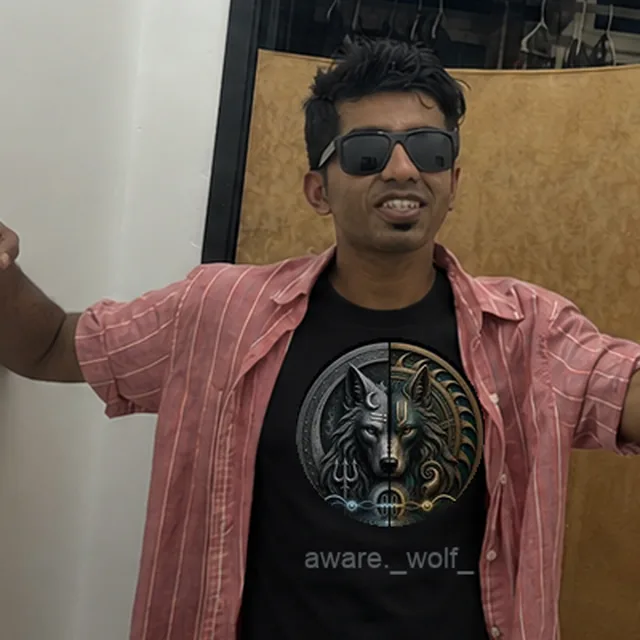
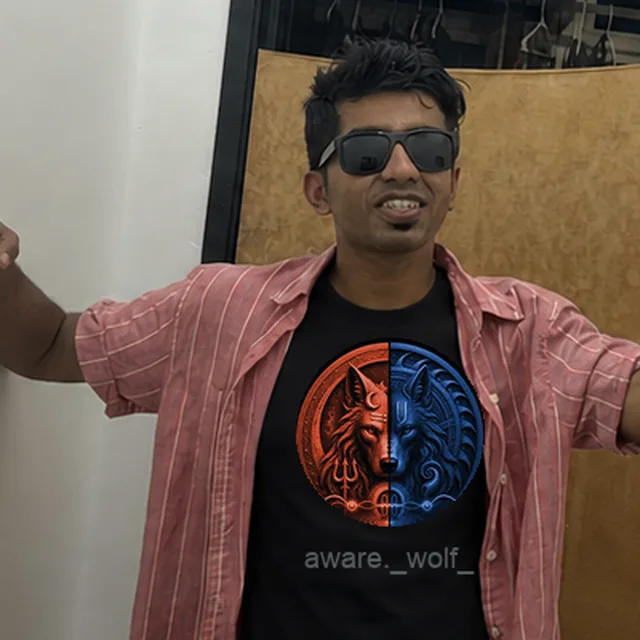
Rebrand AwareWolf in Shiva orange and Narayan blue

Changed region(s): [[0.4375, 0.5312, 0.7812, 0.8438]]

diff --git a/styles.css b/styles.css
@@ -2,10 +2,10 @@
 @import url("https://fonts.googleapis.com/css2?family=Anton&family=Karla:ital,wght@0,400;0,500;0,700;1,400&family=Tiro+Devanagari+Sanskrit&display=swap");
 
 *,*::before,*::after{box-sizing:border-box}
-html{scroll-behavior:smooth;color-scheme:light dark}
-body{margin:0;font-family:var(--aw-font-body);font-size:1.0625rem;line-height:1.6;-webkit-font-smoothing:antialiased}
-body.reading{--site-accent:var(--aw-peacock);--site-accent-pressed:var(--aw-indigo-2);background:var(--aw-bone);color:var(--aw-night);color-scheme:light}
-body.night{--site-accent:var(--aw-peacock-light);--site-accent-pressed:var(--aw-moon);background:var(--aw-night);color:var(--aw-bone);color-scheme:dark}
+html{scroll-behavior:smooth;color-scheme:light dark;max-width:100%;overflow-x:clip}
+body{margin:0;max-width:100%;overflow-x:clip;font-family:var(--aw-font-body);font-size:1.0625rem;line-height:1.6;-webkit-font-smoothing:antialiased}
+body.reading{--site-accent:var(--aw-shiva-ink);--site-accent-pressed:var(--aw-narayan-ink);--site-secondary:var(--aw-narayan);background:var(--aw-bone);color:var(--aw-night);color-scheme:light}
+body.night{--site-accent:var(--aw-shiva);--site-accent-pressed:var(--aw-narayan-light);--site-secondary:var(--aw-narayan-light);background:var(--aw-night);color:var(--aw-bone);color-scheme:dark}
 img{display:block;max-width:100%;height:auto}
 a{color:inherit;text-underline-offset:.18em;text-decoration-thickness:.08em}
 a:hover{color:var(--site-accent-pressed)}
@@ -25,23 +25,24 @@ p{margin:0 0 1em}
 .eyebrow,.muted{color:var(--aw-bone-3)}
 .reading .eyebrow,.reading .muted{color:var(--aw-line)}
 .site-header{border-bottom:1px solid var(--aw-line);background:var(--aw-night);color:var(--aw-bone)}
-.nav-wrap{min-height:4.5rem;display:flex;align-items:center;justify-content:space-between;gap:1rem}
+.nav-wrap{min-width:0;min-height:4.5rem;display:flex;align-items:center;justify-content:space-between;gap:1rem}
 .brand-mark{width:44px;height:auto;flex:0 0 auto}
 .nav-toggle{appearance:none;border:1px solid var(--aw-line);background:transparent;color:var(--aw-bone);font:700 .78rem var(--aw-font-body);letter-spacing:.12em;text-transform:lowercase;padding:.6rem .7rem}
-.site-nav{display:block;position:static;background:var(--aw-night)}
+.site-nav{display:block;min-width:0;position:static;background:var(--aw-night)}
 .site-nav ul{list-style:none;margin:0;padding:0;display:flex;flex-wrap:wrap;justify-content:flex-end;gap:.15rem .7rem}
 .site-nav a{display:block;padding:.35rem .1rem;color:var(--aw-bone);text-decoration:none;font-size:.74rem;font-weight:700}
-.site-nav a[aria-current="page"]{color:var(--aw-peacock-light)}
+.site-nav a[aria-current="page"]{color:var(--aw-narayan-light)}
 .hero{min-height:calc(100svh - 4.5rem);display:grid;align-items:center;padding:4rem 0 5rem}
-.hero-grid{display:grid;gap:3rem}
-.lockup{width:min(100%,520px);max-width:520px}
+.hero-grid{display:grid;gap:3rem;min-width:0}
+.hero-grid>*{min-width:0}
+.lockup{width:100%;max-width:520px}
 .thesis{font-size:clamp(2.2rem,9vw,5.2rem);margin:.65em 0 .25em}
 .tagline{font-size:clamp(1.1rem,3vw,1.45rem);max-width:38ch;color:var(--aw-bone-3)}
 .sanskrit{font-family:var(--aw-font-sanskrit);font-size:clamp(2rem,7vw,3.6rem);line-height:1.15;display:block}
 .translation{display:block;margin-top:.35rem;color:var(--aw-bone-3);font-size:.9rem}
 .reading .translation{color:var(--aw-line)}
 .triad{margin-top:2rem}
-.crescent{width:3.75rem;height:3.75rem;border:2px solid var(--aw-moon);border-right-color:var(--site-accent);border-radius:50%;flex:0 0 auto;transform:rotate(-18deg)}
+.crescent{width:3.75rem;height:3.75rem;border:2px solid;border-color:var(--aw-shiva) var(--aw-narayan-light) var(--aw-narayan-light) var(--aw-shiva);border-radius:50%;flex:0 0 auto;transform:rotate(-18deg)}
 .section{padding:5rem 0;border-top:1px solid}
 .night .section{border-color:var(--aw-line)}
 .reading .section{border-color:var(--aw-bone-3)}
@@ -52,18 +53,21 @@ p{margin:0 0 1em}
 .reading .card{background:var(--aw-bone-2);border-color:var(--aw-bone-3)}
 .night .card{background:var(--aw-night-2);border-color:var(--aw-line)}
 .card p:last-child{margin-bottom:0}
-.pillar .sanskrit{color:var(--site-accent)}
 .pillar-lab .sanskrit{color:var(--aw-lab)}
+.pillar-sanatan .sanskrit{color:var(--aw-shiva)}
+.pillar-play .sanskrit{color:var(--aw-narayan-light)}
 .calls{display:grid;gap:1rem}
 .call{display:block;padding:1.5rem;border:1px solid var(--aw-line);background:var(--aw-night-2);color:var(--aw-bone);text-decoration:none}
 .call strong{display:block;font:400 clamp(2.7rem,13vw,6rem)/.9 var(--aw-font-display);text-transform:lowercase;color:var(--site-accent)}
+.call:nth-child(2) strong{color:var(--site-secondary)}
 .call span{display:block;margin-top:.8rem;color:var(--aw-bone-3)}
 .manifesto{font-size:clamp(1.7rem,5.5vw,3.6rem);line-height:1.08;max-width:24ch}
 .manifesto br+br{line-height:1.7}
 .page-intro{padding:5rem 0 3rem}
 .page-intro h1{font-size:clamp(3.2rem,11vw,7rem)}
 .lede{font-size:clamp(1.1rem,2.8vw,1.35rem);max-width:54ch}
-.name-card .sanskrit{color:var(--site-accent)}
+.name-card .sanskrit{color:var(--aw-shiva-ink)}
+.name-card:nth-child(even) .sanskrit{color:var(--aw-narayan)}
 .name-row{padding:2.5rem 0;border-top:1px solid var(--aw-bone-3);display:grid;gap:1.35rem}
 .name-row:first-child{border-top:0}
 .name-row h2{font-size:clamp(2.2rem,7vw,4rem)}
@@ -73,7 +77,7 @@ p{margin:0 0 1em}
 .rule{border-left:3px solid var(--site-accent);padding:.85rem 1rem;background:var(--aw-bone-2);margin-top:1rem}
 .tier{display:inline-block;padding:.25rem .55rem;color:var(--aw-night);margin-bottom:.7rem;border-radius:2px}
 .tier-finding{background:var(--aw-lab)}
-.tier-frontier{background:var(--aw-antique-gold)}
+.tier-frontier{background:var(--aw-narayan-light)}
 .tier-interpretation{background:var(--aw-bone-3)}
 .standard-grid{display:grid;gap:1rem;margin:2rem 0 4rem}
 .say-never{display:grid;gap:2rem}
@@ -84,7 +88,7 @@ p{margin:0 0 1em}
 .study:first-child{border-top:0}
 .study h2{font-size:clamp(1.8rem,6vw,2.8rem)}
 .study .meta{color:var(--aw-bone-3);margin:.4rem 0 .8rem}
-.study a{color:var(--site-accent);font-weight:700}
+.study a{color:var(--site-secondary);font-weight:700}
 .noscript-note{border:1px solid var(--aw-line);padding:1rem;margin-bottom:1rem}
 .play-frame{min-height:calc(100svh - 4.5rem);display:grid;place-items:center;text-align:center;padding:4rem 1rem;background:var(--aw-night)}
 .play-stack,.play-result{display:flex;flex-direction:column;align-items:center;gap:1rem;max-width:38rem}
@@ -96,15 +100,23 @@ p{margin:0 0 1em}
 .accordion details{border-bottom:1px solid var(--aw-line)}
 .accordion summary{cursor:pointer;padding:1rem 0;font:400 1.7rem/1 var(--aw-font-display);text-transform:lowercase}
 .accordion p{color:var(--aw-bone-3)}
-.proof{border-left:3px solid var(--site-accent);padding:1rem 1.25rem;background:var(--aw-night-2)}
+.proof{border-left:3px solid var(--site-secondary);padding:1rem 1.25rem;background:var(--aw-night-2)}
 .site-footer{border-top:1px solid var(--aw-line);padding:2.5rem 0 3rem;background:var(--aw-night);color:var(--aw-bone-3)}
 .footer-grid{display:grid;gap:1rem}
-.site-footer a{color:var(--aw-bone)}
+.site-footer a{color:var(--aw-narayan-light)}
 .closing{font:400 1.8rem/1 var(--aw-font-display);text-transform:lowercase;color:var(--aw-bone)}
+
+@media (max-width:47.99rem){
+  .nav-wrap{align-items:stretch;flex-direction:column;padding:.65rem 0;gap:.45rem}
+  .brand-mark{width:38px}
+  .site-nav{width:100%;overflow-x:auto;overscroll-behavior-inline:contain;scrollbar-width:none}
+  .site-nav::-webkit-scrollbar{display:none}
+  .site-nav ul{width:max-content;flex-wrap:nowrap;justify-content:flex-start}
+}
 
 @media (min-width:48rem){
   .shell{width:min(100% - 4rem,72rem)}
-  .nav-toggle{display:none}.site-nav ul{gap:1rem}.site-nav a{font-size:.85rem;padding:.75rem .2rem}
+  .nav-wrap{align-items:center;flex-direction:row}.nav-toggle{display:none}.site-nav ul{gap:1rem}.site-nav a{font-size:.85rem;padding:.75rem .2rem}
   .hero-grid{grid-template-columns:minmax(0,1.2fr) minmax(16rem,.8fr);align-items:end}
   .grid-2,.calls,.say-never{grid-template-columns:repeat(2,minmax(0,1fr))}.grid-3,.standard-grid{grid-template-columns:repeat(3,minmax(0,1fr))}
   .name-row{grid-template-columns:minmax(12rem,.8fr) minmax(0,1fr) minmax(0,1.3fr);gap:2.5rem}

diff --git a/play.html b/play.html
@@ -1,5 +1,5 @@
 <!doctype html><html lang="en"><head><meta charset="utf-8"><meta name="viewport" content="width=device-width,initial-scale=1"><meta name="description" content="Pick one thing to play this week."><title>Play everything — AwareWolf</title><link rel="stylesheet" href="styles.css"></head>
-<body class="night"><a class="skip-link" href="#main">skip to the page</a><header class="site-header"><div class="shell nav-wrap"><a href="index.html" aria-label="AwareWolf home"><img class="brand-mark" src="brand/awarewolf_mark_v7.webp" width="192" height="192" alt="AwareWolf wolf emblem joining Shiva, Vishnu and quantum science"></a><nav class="site-nav" aria-label="main navigation"><ul><li><a href="index.html">home</a></li><li><a href="name.html">the name</a></li><li><a href="names.html">the nine names</a></li><li><a href="standard.html">the quantum standard</a></li><li><a aria-current="page" href="play.html">play</a></li><li><a href="awake.html">awake</a></li><li><a href="pack.html">the pack</a></li></ul></nav></div></header>
+<body class="night"><a class="skip-link" href="#main">skip to the page</a><header class="site-header"><div class="shell nav-wrap"><a href="index.html" aria-label="AwareWolf home"><img class="brand-mark" src="brand/awarewolf_mark_v8.webp" width="192" height="192" alt="AwareWolf wolf emblem: Shiva orange, Vishnu blue, joined by quantum science"></a><nav class="site-nav" aria-label="main navigation"><ul><li><a href="index.html">home</a></li><li><a href="name.html">the name</a></li><li><a href="names.html">the nine names</a></li><li><a href="standard.html">the quantum standard</a></li><li><a aria-current="page" href="play.html">play</a></li><li><a href="awake.html">awake</a></li><li><a href="pack.html">the pack</a></li></ul></nav></div></header>
 <main id="main"><section class="play-frame" aria-label="pick one"><div class="play-stack" data-play-start><p class="eyebrow">you commented play</p><h1><span class="caption-box">pick one.</span><br><span class="caption-box">this week.</span></h1><p class="muted measure">don't read the whole list below. hit this, and whatever it lands on, go do it before sunday. that's the entire trick.</p><button class="play-button" type="button" data-pick>pick one for me</button><noscript><p class="proof">scripts are off. close your eyes, scroll the list below, and tap one. same rule.</p></noscript></div><div class="play-result" data-play-result hidden><p class="eyebrow">your one for this week</p><h2 class="play-big"><span class="caption-box" data-play-name>—</span></h2><p class="lede" data-play-tip></p><p class="muted">screenshot this. that's your commitment.</p></div></section>
 <section class="section"><div class="shell"><div class="section-head"><span class="crescent" aria-hidden="true"></span><div><p class="eyebrow">all 21</p><h2>tap any.</h2></div></div><p class="muted measure">everything in the reel, with one honest note. i stay with each one until it opens up.</p><div class="accordion">
 <details><summary>kickboxing</summary><p>any gym near you has a trial class. go once. give the bag your full attention for 20 minutes.</p></details><details><summary>football</summary><p>nearest turf, weekday night. someone's always a player short. say yes.</p></details><details><summary>tennis</summary><p>a wall and one ball. hit against it for 20 minutes. no partner needed.</p></details><details><summary>paddleboarding</summary><p>rent one for an hour at any lake. balance, breathe, adjust. that is the whole experience.</p></details><details><summary>deadlift</summary><p>just the bar, no plates. learn the movement. add weight next week, not today.</p></details><details><summary>bhangra</summary><p>search “basic bhangra steps”, living room, ten minutes. no one's watching.</p></details><details><summary>cycling</summary><p>borrow or rent a bike. ride somewhere you'd normally drive.</p></details><details><summary>basketball</summary><p>any park hoop. shoot 50 free throws alone. count the makes.</p></details><details><summary>running</summary><p>20 minutes, slow enough to talk. you're not training for anything.</p></details><details><summary>nunchucks</summary><p>foam ones, backyard, slow figure-eights. attention before speed.</p></details><details><summary>surfing</summary><p>book a beginner lesson before you talk yourself out of it.</p></details><details><summary>calisthenics</summary><p>a bar at the park. hang from it. that's day one.</p></details><details><summary>pool</summary><p>any bar with a table. play a stranger. watch the angles. play again.</p></details><details><summary>chess</summary><p>a free app or a friend and a board. one game, no clock.</p></details><details><summary>ballroom</summary><p>find a beginner social night. go alone. they pair you up.</p></details><details><summary>quad biking</summary><p>a rental near any hill town. alert at first, then grinning.</p></details><details><summary>pickleball</summary><p>public court, borrowed paddle. track the ball, adjust, keep playing.</p></details><details><summary>kayaking</summary><p>rent one, one hour, calm water. sitting outdoors with a stick.</p></details><details><summary>scuba</summary><p>a discovery dive in a pool. breathing underwater counts.</p></details><details><summary>paragliding</summary><p>tandem flight. you run three steps and do nothing else.</p></details><details><summary>guitar</summary><p>three chords, one song, friends building the groove together.</p></details>

diff --git a/index.html b/index.html
@@ -8,19 +8,19 @@
 <body class="night">
 <a class="skip-link" href="#main">skip to the page</a>
 <header class="site-header"><div class="shell nav-wrap">
-  <a href="index.html" aria-label="AwareWolf home"><img class="brand-mark" src="brand/awarewolf_mark_v7.webp" width="192" height="192" alt="AwareWolf wolf emblem joining Shiva, Vishnu and quantum science"></a>
+  <a href="index.html" aria-label="AwareWolf home"><img class="brand-mark" src="brand/awarewolf_mark_v8.webp" width="192" height="192" alt="AwareWolf wolf emblem: Shiva orange, Vishnu blue, joined by quantum science"></a>
   <nav class="site-nav" aria-label="main navigation"><ul><li><a aria-current="page" href="index.html">home</a></li><li><a href="name.html">the name</a></li><li><a href="names.html">the nine names</a></li><li><a href="standard.html">the quantum standard</a></li><li><a href="play.html">play</a></li><li><a href="awake.html">awake</a></li><li><a href="pack.html">the pack</a></li></ul></nav>
 </div></header>
 <main id="main">
   <section class="hero"><div class="shell hero-grid">
-    <div><img class="lockup" src="brand/awarewolf_identity_v7.webp" width="640" height="640" alt="AwareWolf emblem: a wolf joining Shiva, Vishnu and quantum science, with the handle aware dot underscore wolf underscore"><h1 class="thesis">the witness who dances.</h1><p class="tagline">a bridge between the lab and the mat, built through aware presence — the secret sauce for getting better at anything.</p></div>
+    <div><img class="lockup" src="brand/awarewolf_identity_v8.webp" width="640" height="640" alt="AwareWolf emblem: Shiva orange and Vishnu blue joined by quantum science, with the handle aware dot underscore wolf underscore"><h1 class="thesis">the witness who dances.</h1><p class="tagline">a bridge between the lab and the mat, built through aware presence — the secret sauce for getting better at anything.</p></div>
     <div><div class="crescent" aria-hidden="true"></div><div class="triad"><span class="sanskrit" lang="sa">सत् · चित् · आनन्द</span><span class="translation">truth · awareness · joy — science · sanatan · play</span></div></div>
   </div></section>
   <section class="section"><div class="shell"><div class="section-head"><span class="crescent" aria-hidden="true"></span><div><p class="eyebrow">three pillars</p><h2>one true thing. one live thing.</h2></div></div>
     <div class="grid grid-3">
       <article class="card pillar pillar-lab"><span class="sanskrit" lang="sa">सत्</span><span class="translation">sat · truth · science</span><h3>the lab</h3><p>What is actually known, with the caveats out loud. Journal + year on screen, every time.</p></article>
-      <article class="card pillar"><span class="sanskrit" lang="sa">चित्</span><span class="translation">chit · awareness · sanatan</span><h3>the mat</h3><p>Practice explained plainly and tested honestly. Sanskrit with translation, scripture with chapter and verse.</p></article>
-      <article class="card pillar"><span class="sanskrit" lang="sa">आनन्द</span><span class="translation">ānanda · joy · play</span><h3>the field</h3><p>Sport, music, dance, full attention. The proof that presence is not solemn. This earns the right to the other two.</p></article>
+      <article class="card pillar pillar-sanatan"><span class="sanskrit" lang="sa">चित्</span><span class="translation">chit · awareness · sanatan</span><h3>the mat</h3><p>Practice explained plainly and tested honestly. Sanskrit with translation, scripture with chapter and verse.</p></article>
+      <article class="card pillar pillar-play"><span class="sanskrit" lang="sa">आनन्द</span><span class="translation">ānanda · joy · play</span><h3>the field</h3><p>Sport, music, dance, full attention. The proof that presence is not solemn. This earns the right to the other two.</p></article>
     </div>
   </div></section>
   <section class="section"><div class="shell"><div class="section-head"><span class="crescent" aria-hidden="true"></span><div><p class="eyebrow">two doors</p><h2>pick the live thing.</h2></div></div><div class="calls"><a class="call" href="play.html"><strong>play</strong><span>let me choose what you play this week.</span></a><a class="call" href="awake.html"><strong>awake</strong><span>read the receipts behind the last reel.</span></a></div></div></section>

diff --git a/standard.html b/standard.html
@@ -1,5 +1,5 @@
 <!doctype html><html lang="en"><head><meta charset="utf-8"><meta name="viewport" content="width=device-width,initial-scale=1"><meta name="description" content="The AwareWolf quantum standard: finding, frontier and interpretation."><title>The quantum standard — AwareWolf</title><link rel="stylesheet" href="styles.css"></head>
-<body class="reading"><a class="skip-link" href="#main">skip to the page</a><header class="site-header"><div class="shell nav-wrap"><a href="index.html" aria-label="AwareWolf home"><img class="brand-mark" src="brand/awarewolf_mark_v7.webp" width="192" height="192" alt="AwareWolf wolf emblem joining Shiva, Vishnu and quantum science"></a><nav class="site-nav" aria-label="main navigation"><ul><li><a href="index.html">home</a></li><li><a href="name.html">the name</a></li><li><a href="names.html">the nine names</a></li><li><a aria-current="page" href="standard.html">the quantum standard</a></li><li><a href="play.html">play</a></li><li><a href="awake.html">awake</a></li><li><a href="pack.html">the pack</a></li></ul></nav></div></header>
+<body class="reading"><a class="skip-link" href="#main">skip to the page</a><header class="site-header"><div class="shell nav-wrap"><a href="index.html" aria-label="AwareWolf home"><img class="brand-mark" src="brand/awarewolf_mark_v8.webp" width="192" height="192" alt="AwareWolf wolf emblem: Shiva orange, Vishnu blue, joined by quantum science"></a><nav class="site-nav" aria-label="main navigation"><ul><li><a href="index.html">home</a></li><li><a href="name.html">the name</a></li><li><a href="names.html">the nine names</a></li><li><a aria-current="page" href="standard.html">the quantum standard</a></li><li><a href="play.html">play</a></li><li><a href="awake.html">awake</a></li><li><a href="pack.html">the pack</a></li></ul></nav></div></header>
 <main id="main"><header class="page-intro shell"><p class="eyebrow">the quantum standard</p><h1>label the claim.</h1><p class="lede">"Quantum" is the most abused word in spiritual content. AwareWolf earns the right to use it by labelling every quantum claim with its tier, on screen.</p></header>
 <section class="section"><div class="shell"><div class="standard-grid"><article class="card"><span class="tier tier-finding">finding</span><h2>settled</h2><p>Superposition, entanglement, tunnelling, decoherence, quantum field theory, macroscopic quantum states (Nobel 2025). Say these plainly. No hedge needed beyond "this is physics, not metaphysics."</p></article><article class="card"><span class="tier tier-frontier">frontier</span><h2>real but contested</h2><p>Quantum effects in biology (photosynthesis strong, brain unknown); microtubules and anaesthesia (Neuroscience of Consciousness, 2025 — argued, not accepted); black-hole information recovery. Say "some physicists argue," name them, and say most colleagues disagree.</p></article><article class="card"><span class="tier tier-interpretation">interpretation</span><h2>philosophy</h2><p>What measurement means; whether the observer matters; QBism, relational QM, many-worlds; consciousness-first metaphysics (Kastrup). Say "this is an interpretation" and never present it as a result.</p></article></div>
 <div class="say-never"><section><h2>say</h2><ul><li>"the questions have started to rhyme."</li><li>"this is physics. the meaning is mine."</li><li>"twenty people, no control group — so, honestly, we don't know."</li><li>"some physicists argue X. most don't. it's being tested."</li><li>"the Gītā's word for the body is the physicist's word for reality. that's a coincidence worth sitting with."</li></ul></section><section><h2>never</h2><ul><li>"quantum physics proves…" / "science has confirmed the Vedas."</li><li>"the observer creates reality" stated as fact.</li><li>"vibration", "frequency", "manifest", "energy" as physics words.</li><li>"ancient wisdom knew" without the verse.</li><li>Any claim without a journal and a year on screen.</li></ul></section></div></div></section>

diff --git a/pack.html b/pack.html
@@ -1,5 +1,5 @@
 <!doctype html><html lang="en"><head><meta charset="utf-8"><meta name="viewport" content="width=device-width,initial-scale=1"><meta name="description" content="The AwareWolf pack — built on proof, not applause."><title>The pack — AwareWolf</title><link rel="stylesheet" href="styles.css"></head>
-<body class="reading"><a class="skip-link" href="#main">skip to the page</a><header class="site-header"><div class="shell nav-wrap"><a href="index.html" aria-label="AwareWolf home"><img class="brand-mark" src="brand/awarewolf_mark_v7.webp" width="192" height="192" alt="AwareWolf wolf emblem joining Shiva, Vishnu and quantum science"></a><nav class="site-nav" aria-label="main navigation"><ul><li><a href="index.html">home</a></li><li><a href="name.html">the name</a></li><li><a href="names.html">the nine names</a></li><li><a href="standard.html">the quantum standard</a></li><li><a href="play.html">play</a></li><li><a href="awake.html">awake</a></li><li><a aria-current="page" href="pack.html">the pack</a></li></ul></nav></div></header>
+<body class="reading"><a class="skip-link" href="#main">skip to the page</a><header class="site-header"><div class="shell nav-wrap"><a href="index.html" aria-label="AwareWolf home"><img class="brand-mark" src="brand/awarewolf_mark_v8.webp" width="192" height="192" alt="AwareWolf wolf emblem: Shiva orange, Vishnu blue, joined by quantum science"></a><nav class="site-nav" aria-label="main navigation"><ul><li><a href="index.html">home</a></li><li><a href="name.html">the name</a></li><li><a href="names.html">the nine names</a></li><li><a href="standard.html">the quantum standard</a></li><li><a href="play.html">play</a></li><li><a href="awake.html">awake</a></li><li><a aria-current="page" href="pack.html">the pack</a></li></ul></nav></div></header>
 <main id="main"><header class="page-intro shell"><p class="eyebrow">the pack</p><h1>proof, not applause.</h1><p class="lede">Svāna, the dog who stayed. Followers are not an audience; they are the ones who came along. The community system is built on proof, not applause.</p></header>
 <section class="section"><div class="shell grid grid-3"><article class="card"><h2>the proof loop</h2><p>Comment the keyword → get the page → screenshot your pick → go do it → send the proof. Every proof is reposted to stories with the mark stamp. Every month the proofs become a reel: "you actually went."</p></article><article class="card"><h2>the sunday howl</h2><p>Sunday night story: one question, "what did you play this week?" Answers reposted. It is the brand's only recurring ritual and it never sells anything.</p></article><article class="card"><h2>pack rules</h2><p>Reply to every comment in the first hour in your texting voice. Never pin praise. Pin the best miss. Correct yourself publicly when a study turns out weaker than you said — that correction is content.</p></article></div></section>
 <section class="section"><div class="shell"><div class="section-head"><span class="crescent" aria-hidden="true"></span><div><p class="eyebrow">your turn</p><h2>send your proof.</h2></div></div><p class="lede">Screenshot your pick. Go do it. Then <a href="https://www.instagram.com/aware._wolf_/">dm me on instagram</a>. i reply to all of them.</p></div></section></main>

diff --git a/names.html b/names.html
@@ -1,5 +1,5 @@
 <!doctype html><html lang="en"><head><meta charset="utf-8"><meta name="viewport" content="width=device-width,initial-scale=1"><meta name="description" content="Nine Sahasranāma names, nine scientific rhymes, nine rules."><title>The nine names — AwareWolf</title><link rel="stylesheet" href="styles.css"></head>
-<body class="reading"><a class="skip-link" href="#main">skip to the page</a><header class="site-header"><div class="shell nav-wrap"><a href="index.html" aria-label="AwareWolf home"><img class="brand-mark" src="brand/awarewolf_mark_v7.webp" width="192" height="192" alt="AwareWolf wolf emblem joining Shiva, Vishnu and quantum science"></a><nav class="site-nav" aria-label="main navigation"><ul><li><a href="index.html">home</a></li><li><a href="name.html">the name</a></li><li><a aria-current="page" href="names.html">the nine names</a></li><li><a href="standard.html">the quantum standard</a></li><li><a href="play.html">play</a></li><li><a href="awake.html">awake</a></li><li><a href="pack.html">the pack</a></li></ul></nav></div></header>
+<body class="reading"><a class="skip-link" href="#main">skip to the page</a><header class="site-header"><div class="shell nav-wrap"><a href="index.html" aria-label="AwareWolf home"><img class="brand-mark" src="brand/awarewolf_mark_v8.webp" width="192" height="192" alt="AwareWolf wolf emblem: Shiva orange, Vishnu blue, joined by quantum science"></a><nav class="site-nav" aria-label="main navigation"><ul><li><a href="index.html">home</a></li><li><a href="name.html">the name</a></li><li><a aria-current="page" href="names.html">the nine names</a></li><li><a href="standard.html">the quantum standard</a></li><li><a href="play.html">play</a></li><li><a href="awake.html">awake</a></li><li><a href="pack.html">the pack</a></li></ul></nav></div></header>
 <main id="main"><header class="page-intro shell"><p class="eyebrow">the nine names</p><h1>rhymes, not proofs.</h1><p class="lede">Nine names from the two Sahasranāmas, each paired with a real finding from physics or neuroscience and turned into a rule the brand can be held to. The pairings are <b>rhymes, not proofs</b> — and the brand says so, every time.</p></header>
 <section class="section"><div class="shell">
 <article class="name-row"><div><span class="sanskrit" lang="sa">साक्षी</span><span class="translation">Sākṣī · the witness</span><p class="iast">Sākṣī</p><p class="source">viṣṇu sahasranāma · 15</p></div><div><span class="label">the name</span><p><b>The witness.</b> Śaṅkara: the one who sees everything directly, as it is. Not the doer — the one who watches the doing.</p></div><div><span class="tier tier-interpretation">interpretation</span><p>Quantum theory has no "view from nowhere." In QBism and relational interpretations, a measurement outcome is always an outcome <i>for someone</i>. Physics cannot get rid of the witness; it can only argue about what the witness is.</p><p class="rule"><b>Rule:</b> first person, always. We say what we saw and did. Never "studies show" without "and here is what happened when I tried it."</p></div></article>

diff --git a/name.html b/name.html
@@ -1,5 +1,5 @@
 <!doctype html><html lang="en"><head><meta charset="utf-8"><meta name="viewport" content="width=device-width,initial-scale=1"><meta name="description" content="The name AwareWolf, read through the texts."><title>The name — AwareWolf</title><link rel="stylesheet" href="styles.css"></head>
-<body class="reading"><a class="skip-link" href="#main">skip to the page</a><header class="site-header"><div class="shell nav-wrap"><a href="index.html" aria-label="AwareWolf home"><img class="brand-mark" src="brand/awarewolf_mark_v7.webp" width="192" height="192" alt="AwareWolf wolf emblem joining Shiva, Vishnu and quantum science"></a><nav class="site-nav" aria-label="main navigation"><ul><li><a href="index.html">home</a></li><li><a aria-current="page" href="name.html">the name</a></li><li><a href="names.html">the nine names</a></li><li><a href="standard.html">the quantum standard</a></li><li><a href="play.html">play</a></li><li><a href="awake.html">awake</a></li><li><a href="pack.html">the pack</a></li></ul></nav></div></header>
+<body class="reading"><a class="skip-link" href="#main">skip to the page</a><header class="site-header"><div class="shell nav-wrap"><a href="index.html" aria-label="AwareWolf home"><img class="brand-mark" src="brand/awarewolf_mark_v8.webp" width="192" height="192" alt="AwareWolf wolf emblem: Shiva orange, Vishnu blue, joined by quantum science"></a><nav class="site-nav" aria-label="main navigation"><ul><li><a href="index.html">home</a></li><li><a aria-current="page" href="name.html">the name</a></li><li><a href="names.html">the nine names</a></li><li><a href="standard.html">the quantum standard</a></li><li><a href="play.html">play</a></li><li><a href="awake.html">awake</a></li><li><a href="pack.html">the pack</a></li></ul></nav></div></header>
 <main id="main"><header class="page-intro shell"><p class="eyebrow">the name</p><h1>read through the texts.</h1><p class="lede">The name was chosen as a pun. It turns out to be a citation.</p></header>
 <section class="section"><div class="shell grid grid-2">
 <article class="card name-card"><span class="sanskrit" lang="sa">वृक</span><span class="translation">vṝka — the wolf</span><h2>vṝka — the wolf</h2><p>Sanskrit for wolf, attested in the Ṛgveda. The wolf is the one animal that plays its whole life — not just as a pup. Pack, instinct, night, howl. A werewolf changes when the moon comes out. An <b>aware</b> wolf is the one that noticed it changing.</p></article>

diff --git a/brand/tokens.css b/brand/tokens.css
@@ -1,25 +1,24 @@
-/* AwareWolf design tokens v2 */
+/* AwareWolf design tokens v3 — Shiva × Narayan */
 :root{
-  --aw-vermilion:#F23A0E;   /* brand + practice; the only accent in UI */
-  --aw-ember:#B8260A;       /* vermilion's shadow: hover, pressed, low-emphasis crescent */
-  --aw-night:#0F1216;       /* video ground, dark UI */
-  --aw-night-2:#171B22;
-  --aw-line:#2A2F38;
-  --aw-bone:#F2EDE4;        /* reading ground, logo ground */
+  --aw-shiva:#DF4B29;       /* exact orange-red sampled from the approved reference */
+  --aw-shiva-ink:#A9321D;   /* AA text companion for bone surfaces */
+  --aw-narayan:#2256A3;     /* Narayan blue; AA on bone */
+  --aw-narayan-ink:#16427F; /* pressed and high-contrast blue on bone */
+  --aw-narayan-light:#79A8FF; /* AA blue on night */
+  --aw-vermilion:var(--aw-shiva); /* legacy alias */
+  --aw-ember:var(--aw-shiva-ink); /* legacy alias */
+  --aw-night:#0A0E16;       /* blue-black ground */
+  --aw-night-2:#121B2A;
+  --aw-line:#2B3850;
+  --aw-bone:#F1EDE5;        /* sampled reference ground */
   --aw-bone-2:#E6DFD2;
   --aw-bone-3:#CFC8BC;
   --aw-gold:#FFD24A;        /* SPOKEN VOICE ONLY: burned captions, big lines. never UI */
   --aw-lab:#6FD3C7;         /* EVIDENCE ONLY: study lower-thirds, "finding" tier tag */
-  --aw-indigo:#0B1420;      /* renewed identity ground */
-  --aw-indigo-2:#132630;    /* pressed states and dimensional panels */
-  --aw-peacock:#0A6F6B;     /* accessible accent on bone */
-  --aw-peacock-light:#78D7D0; /* accessible accent on night */
-  --aw-moon:#C2CBD3;        /* Shiva / lunar structure */
-  --aw-antique-gold:#B99046; /* Vishnu / frontier evidence */
   --aw-font-wordmark:Merriweather,Georgia,serif;          /* weight 900; the name only */
   --aw-font-display:Anton,Impact,"Arial Narrow",sans-serif; /* headlines, always lowercase */
   --aw-font-body:Karla,"Helvetica Neue",Arial,sans-serif;
   --aw-font-sanskrit:"Tiro Devanagari Sanskrit",serif;     /* Sanskrit only, always with English beneath */
 }
-/* ratios: 70% ground / 20% ink / 10% vermilion. gold + teal are semantic, not decorative. */
-/* contrast: bone on night 15:1; night on vermilion 5.9:1; bone on vermilion 3.4:1 (large text only) */
+/* ratios: 70% ground / 20% ink / 5% Shiva / 5% Narayan. gold stays spoken-only; teal stays evidence-only. */
+/* contrast: Shiva ink on bone 5.7:1; Narayan on bone 6.1:1; Shiva on night 4.6:1; Narayan light on night 7.9:1. */

diff --git a/awake.html b/awake.html
@@ -1,5 +1,5 @@
 <!doctype html><html lang="en"><head><meta charset="utf-8"><meta name="viewport" content="width=device-width,initial-scale=1"><meta name="description" content="The studies behind AwareWolf — with the limitation before the takeaway."><title>Awake — AwareWolf</title><link rel="stylesheet" href="styles.css"></head>
-<body class="night"><a class="skip-link" href="#main">skip to the page</a><header class="site-header"><div class="shell nav-wrap"><a href="index.html" aria-label="AwareWolf home"><img class="brand-mark" src="brand/awarewolf_mark_v7.webp" width="192" height="192" alt="AwareWolf wolf emblem joining Shiva, Vishnu and quantum science"></a><nav class="site-nav" aria-label="main navigation"><ul><li><a href="index.html">home</a></li><li><a href="name.html">the name</a></li><li><a href="names.html">the nine names</a></li><li><a href="standard.html">the quantum standard</a></li><li><a href="play.html">play</a></li><li><a aria-current="page" href="awake.html">awake</a></li><li><a href="pack.html">the pack</a></li></ul></nav></div></header>
+<body class="night"><a class="skip-link" href="#main">skip to the page</a><header class="site-header"><div class="shell nav-wrap"><a href="index.html" aria-label="AwareWolf home"><img class="brand-mark" src="brand/awarewolf_mark_v8.webp" width="192" height="192" alt="AwareWolf wolf emblem: Shiva orange, Vishnu blue, joined by quantum science"></a><nav class="site-nav" aria-label="main navigation"><ul><li><a href="index.html">home</a></li><li><a href="name.html">the name</a></li><li><a href="names.html">the nine names</a></li><li><a href="standard.html">the quantum standard</a></li><li><a href="play.html">play</a></li><li><a aria-current="page" href="awake.html">awake</a></li><li><a href="pack.html">the pack</a></li></ul></nav></div></header>
 <main id="main"><header class="page-intro shell"><p class="eyebrow">awake</p><h1>here are the receipts.</h1><p class="lede">Eleven sources behind the work. A tier tells you what kind of claim it can carry. Limitation first. Then the one plain line.</p></header>
 <section class="section"><div class="shell"><div id="studies" class="study-list" aria-live="polite"></div>
 <div id="study-fallback" class="study-list"><p class="noscript-note">The page still works without scripts. The editable version of this same list lives in the script at the end of this file.</p>

diff --git a/README.md b/README.md
@@ -18,9 +18,11 @@ The HTML immediately above that script is the no-JavaScript fallback. Keep it al
 
 Keep the same filenames and replace the files in `brand/`, or update the `src` values site-wide:
 
-- `brand/awarewolf_identity_v7.webp` is the current full emblem and `aware._wolf_` lockup.
-- `brand/awarewolf_mark_v7.webp` is the current emblem-only navigation mark.
+- `brand/awarewolf_identity_v8.webp` is the current full emblem and `aware._wolf_` lockup.
+- `brand/awarewolf_mark_v8.webp` is the current emblem-only navigation mark.
 - The original supplied assets remain beside them for provenance and rollback.
+
+The v8 colour system assigns the approved reference orange-red (`#DF4B29`) to Shiva and Narayan blue (`#2256A3`) to Vishnu. Their lighter/darker companions exist only to maintain WCAG AA contrast. Keep the quantum bridge continuous across the two halves; never repeat it as unrelated decoration on each side.
 
 Keep the intrinsic proportions. Do not add CSS filters or recolour the art. The current CSS caps the identity lockup at 520 px.
 
@@ -30,7 +32,7 @@ Keep the intrinsic proportions. Do not add CSS filters or recolour the art. The 
 - The crop intentionally removes the phone, mirror edges, floor, and wide room context while keeping Ritwik, the pose, and the complete shirt lockup intact.
 - Keep it square. A circular platform crop is permitted, but keep the face and full AwareWolf emblem inside the safe area.
 - Do not regenerate, beautify, replace the background, recolour the shirt, or separate the emblem from the `aware._wolf_` handle.
-- The web asset is 640×640 and below 60 KB. The larger social upload is stored separately as `Ritwik_AwareWolf_Founder_Square_v1.jpg`.
+- The web asset is 640×640 and below 60 KB. The current larger social upload is stored separately as `Ritwik_AwareWolf_Founder_Square_v2.jpg`.
 
 ## Deploy to Netlify
 
